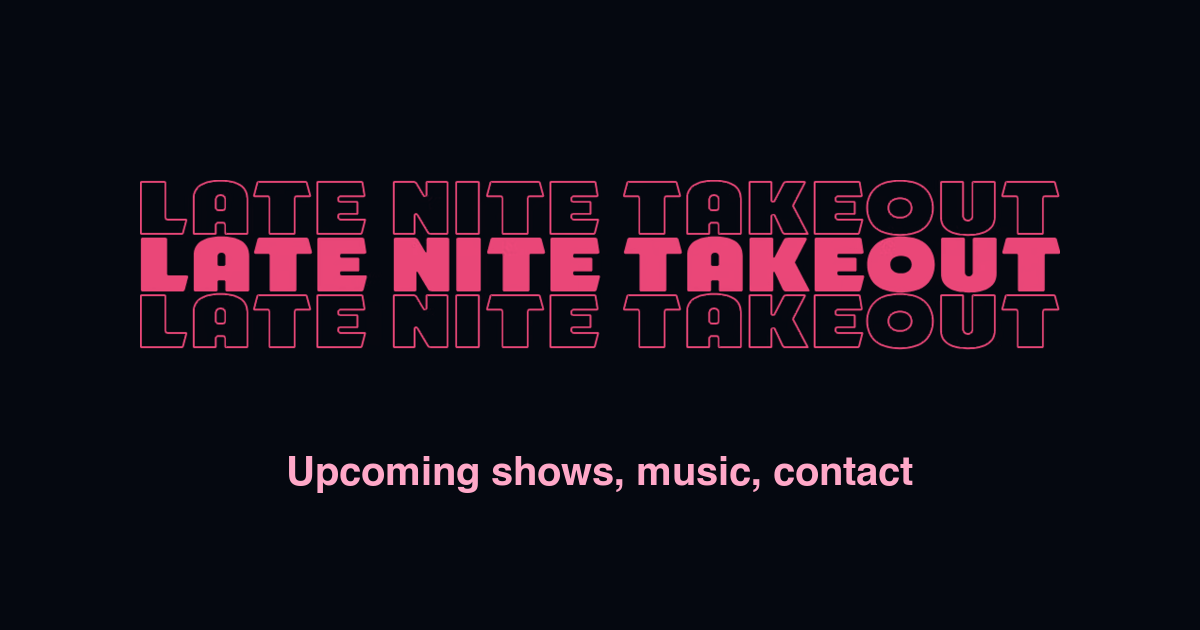
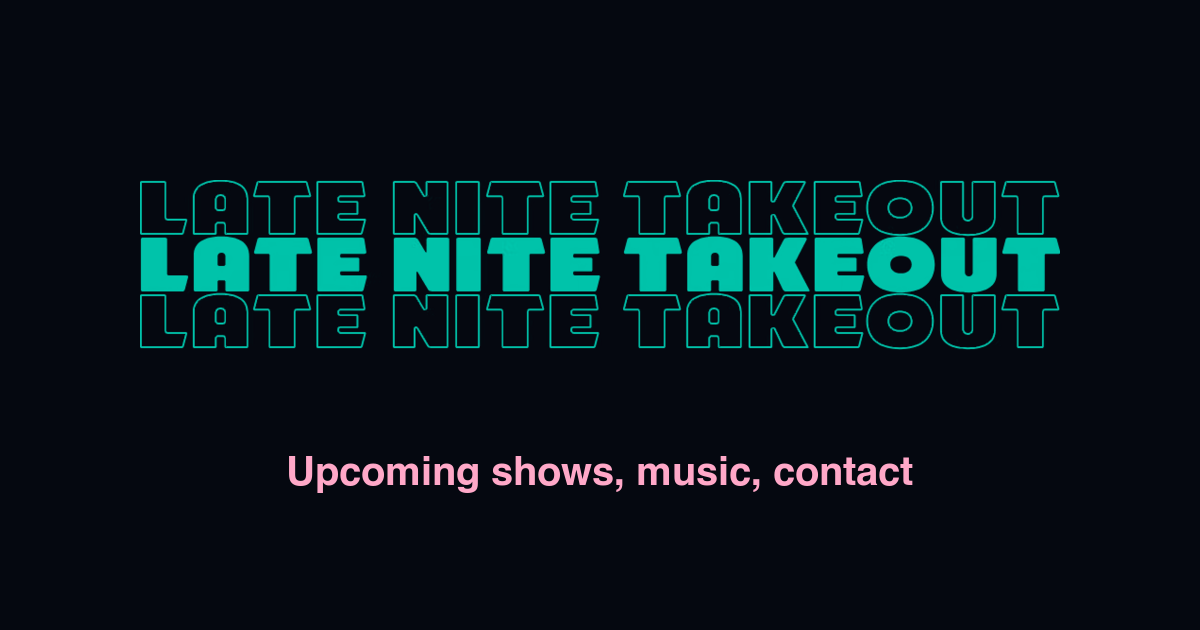
Apply Neon Diner nav and shows styling with pink Bandcamp CTA.
Swap logo/nav neon colors, teal shows dividers with pink accents, themed burger menu, and pink Listen on Bandcamp button.

Changed region(s): [[0.0925, 0.2714, 0.8942, 0.573]]

diff --git a/css/style.css b/css/style.css
@@ -233,8 +233,8 @@ a:hover {
 
 .nav-link,
 .mobile-nav__link {
-  color: var(--neon-teal-bright);
-  text-shadow: var(--neon-glow-teal);
+  color: var(--neon-pink-bright);
+  text-shadow: var(--neon-glow-pink);
 }
 
 .nav-link {
@@ -256,21 +256,21 @@ a:hover {
   text-align: center;
   white-space: nowrap;
   line-height: 1.1;
-  color: var(--neon-pink-bright);
-  text-shadow: var(--neon-glow-pink);
+  color: var(--neon-teal-bright);
+  text-shadow: var(--neon-glow-teal);
   cursor: pointer;
 }
 
 .nav-link:hover,
 .nav-link:focus-visible {
   color: #fff;
-  text-shadow: var(--neon-glow-teal-intense);
+  text-shadow: var(--neon-glow-pink-intense);
 }
 
 .logo:hover,
 .logo:focus-visible {
   color: #fff;
-  text-shadow: var(--neon-glow-pink-intense);
+  text-shadow: var(--neon-glow-teal-intense);
 }
 
 .nav-menu-btn,
@@ -283,9 +283,12 @@ a:hover {
 }
 
 .nav-menu-btn {
-  --burger-bun: #e8c078;
-  --burger-patty: #6d3f22;
-  --french-fry: #f2c842;
+  --burger-bun: #f0d092;
+  --burger-tomato: #ff4d82;
+  --burger-lettuce: #2ce8b8;
+  --burger-patty: #6b4f58;
+  --french-fry: #7af8e8;
+  --french-fry-hot: #00d4b8;
   position: relative;
   z-index: 2;
   justify-self: start;
@@ -394,18 +397,22 @@ a:hover {
 .nav-menu-btn__line--bun-top,
 .nav-menu-btn__line--bun-bottom {
   background: var(--burger-bun);
+  box-shadow: 0 0 3px rgba(240, 208, 146, 0.35);
 }
 
 .nav-menu-btn__line--tomato {
-  background: #d63b2f;
+  background: var(--burger-tomato);
+  box-shadow: 0 0 4px rgba(255, 77, 130, 0.45);
 }
 
 .nav-menu-btn__line--lettuce {
-  background: #72b84e;
+  background: var(--burger-lettuce);
+  box-shadow: 0 0 4px rgba(0, 212, 184, 0.4);
 }
 
 .nav-menu-btn__line--patty {
   background: var(--burger-patty);
+  box-shadow: 0 0 4px rgba(107, 79, 88, 0.55);
 }
 
 .nav-menu-btn[aria-expanded="true"] .nav-menu-btn__stack {
@@ -446,15 +453,15 @@ a:hover {
     background 0.24s ease;
   background: linear-gradient(
     90deg,
-    var(--burger-bun) 0%,
-    var(--french-fry) 20%,
-    #f5d76e 50%,
-    var(--french-fry) 80%,
-    #e8b84a 100%
+    var(--french-fry-hot) 0%,
+    var(--french-fry) 35%,
+    #ffa8c8 65%,
+    var(--burger-tomato) 100%
   );
   box-shadow:
-    0 0 5px rgba(242, 200, 66, 0.45),
-    inset 0 1px 0 rgba(255, 240, 180, 0.55);
+    0 0 6px rgba(0, 212, 184, 0.55),
+    0 0 8px rgba(255, 77, 130, 0.4),
+    inset 0 1px 0 rgba(255, 255, 255, 0.45);
 }
 
 .nav-menu-btn[aria-expanded="true"] .nav-menu-btn__line--bun-top {
@@ -501,7 +508,7 @@ a:hover {
 .mobile-nav__link:hover,
 .mobile-nav__link:focus-visible {
   color: #fff;
-  text-shadow: var(--neon-glow-teal-intense);
+  text-shadow: var(--neon-glow-pink-intense);
 }
 
 .site-header.is-menu-open {
@@ -578,14 +585,15 @@ a:hover {
 .section--shows {
   background: var(--charcoal);
   max-width: none;
-  border-top: 1px solid var(--border);
-  border-bottom: 1px solid var(--border);
+  border-top: 1px solid rgba(0, 212, 184, 0.35);
+  border-bottom: 1px solid rgba(0, 212, 184, 0.35);
 }
 
 .section--shows .section-head {
   max-width: 54rem;
   margin-left: auto;
   margin-right: auto;
+  border-bottom-color: var(--neon-pink);
 }
 
 .shows-list {
@@ -595,17 +603,17 @@ a:hover {
   max-width: 54rem;
 }
 
-.show {
+.section--shows .show {
   display: grid;
   grid-template-columns: 5rem 1fr auto;
   gap: 1.25rem 2rem;
   align-items: center;
   padding: 1.75rem 0;
-  border-bottom: 1px solid var(--border);
+  border-bottom: 1px solid rgba(0, 212, 184, 0.3);
 }
 
-.show:first-of-type {
-  border-top: 1px solid var(--border);
+.section--shows .show:first-of-type {
+  border-top: 1px solid rgba(0, 212, 184, 0.3);
 }
 
 .show:hover {
@@ -624,7 +632,7 @@ a:hover {
   gap: 0.35rem;
   margin: 0;
   padding: 0 0.75rem;
-  border-left: 4px solid var(--orange);
+  border-left: 4px solid var(--neon-pink);
   line-height: 1;
 }
 
@@ -693,29 +701,29 @@ a:hover {
   letter-spacing: 0.2em;
   text-transform: uppercase;
   padding: 0.7rem 1.15rem;
-  color: var(--paper);
-  background: var(--blood);
-  border: 2px solid var(--blood);
-  transition: background 0.2s ease, color 0.2s ease;
+  color: var(--btn-solid-text);
+  background: var(--neon-teal);
+  border: 2px solid var(--neon-teal);
+  transition: background 0.2s ease, color 0.2s ease, border-color 0.2s ease;
 }
 
 .show-tickets:hover {
   background: transparent;
-  color: var(--blood-bright);
-  border-color: var(--blood-bright);
+  color: var(--neon-teal-bright);
+  border-color: var(--neon-teal-bright);
 }
 
 .show-tickets--soon {
   cursor: default;
   color: var(--paper-dim);
   background: transparent;
-  border-color: var(--border);
+  border-color: rgba(255, 77, 130, 0.35);
 }
 
 .show-tickets--soon:hover {
   background: transparent;
   color: var(--paper-dim);
-  border-color: var(--border);
+  border-color: rgba(255, 77, 130, 0.35);
 }
 
 .section--music {
@@ -824,15 +832,15 @@ a:hover {
 }
 
 .btn--solid {
-  background: var(--orange);
-  border-color: var(--orange);
+  background: var(--neon-pink);
+  border-color: var(--neon-pink);
   color: var(--btn-solid-text);
 }
 
 .btn--solid:hover {
-  background: var(--paper);
-  border-color: var(--paper);
-  color: var(--btn-solid-text);
+  background: transparent;
+  border-color: var(--neon-pink-bright);
+  color: var(--neon-pink-bright);
 }
 
 .section--contact {
@@ -969,11 +977,11 @@ a:hover {
     overflow: visible;
     text-shadow:
       0 0 1px rgba(255, 255, 255, 0.85),
-      0 0 5px var(--neon-pink),
-      0 0 10px rgba(255, 77, 130, 0.5);
+      0 0 5px var(--neon-teal),
+      0 0 10px rgba(0, 212, 184, 0.5);
   }
 
-  .show {
+  .section--shows .show {
     grid-template-columns: 4.25rem 1fr;
   }
 
@@ -995,54 +1003,54 @@ a:hover {
   }
 }
 
-@keyframes neon-flicker-pink {
+@keyframes neon-flicker-teal {
   0%,
   46%,
   48%,
   92%,
   94%,
   100% {
-    color: var(--neon-pink-bright);
-    text-shadow: var(--neon-glow-pink);
+    color: var(--neon-teal-bright);
+    text-shadow: var(--neon-glow-teal);
   }
 
   47%,
   93% {
-    color: rgba(255, 168, 200, 0.9);
+    color: rgba(122, 248, 232, 0.9);
     text-shadow:
       0 0 1px rgba(255, 255, 255, 0.65),
-      0 0 5px rgba(255, 77, 130, 0.45),
-      0 0 14px rgba(255, 77, 130, 0.32);
+      0 0 5px rgba(0, 212, 184, 0.45),
+      0 0 14px rgba(0, 212, 184, 0.32);
   }
 }
 
-@keyframes neon-flicker-pink-mobile {
+@keyframes neon-flicker-teal-mobile {
   0%,
   46%,
   48%,
   92%,
   94%,
   100% {
-    color: var(--neon-pink-bright);
+    color: var(--neon-teal-bright);
     text-shadow:
       0 0 1px rgba(255, 255, 255, 0.85),
-      0 0 5px var(--neon-pink),
-      0 0 10px rgba(255, 77, 130, 0.5);
+      0 0 5px var(--neon-teal),
+      0 0 10px rgba(0, 212, 184, 0.5);
   }
 
   47%,
   93% {
-    color: rgba(255, 168, 200, 0.9);
+    color: rgba(122, 248, 232, 0.9);
     text-shadow:
       0 0 1px rgba(255, 255, 255, 0.6),
-      0 0 4px rgba(255, 77, 130, 0.4),
-      0 0 9px rgba(255, 77, 130, 0.28);
+      0 0 4px rgba(0, 212, 184, 0.4),
+      0 0 9px rgba(0, 212, 184, 0.28);
   }
 }
 
 @media (prefers-reduced-motion: no-preference) {
   .logo {
-    animation: neon-flicker-pink 12s infinite;
+    animation: neon-flicker-teal 12s infinite;
     animation-delay: -4s;
   }
 
@@ -1055,7 +1063,7 @@ a:hover {
 
 @media (max-width: 768px) and (prefers-reduced-motion: no-preference) {
   .logo {
-    animation-name: neon-flicker-pink-mobile;
+    animation-name: neon-flicker-teal-mobile;
     animation-duration: 12s;
     animation-delay: -4s;
   }

diff --git a/index.html b/index.html
@@ -23,7 +23,7 @@
   <link rel="preconnect" href="https://fonts.googleapis.com">
   <link rel="preconnect" href="https://fonts.gstatic.com" crossorigin>
   <link href="https://fonts.googleapis.com/css2?family=Oswald:wght@500;700&family=Roboto+Condensed:ital,wght@0,400;0,700;1,400&display=swap" rel="stylesheet">
-  <link rel="stylesheet" href="css/style.css?v=23">
+  <link rel="stylesheet" href="css/style.css?v=32">
 </head>
 <body>
   <div class="lnt-page-bg" aria-hidden="true">
